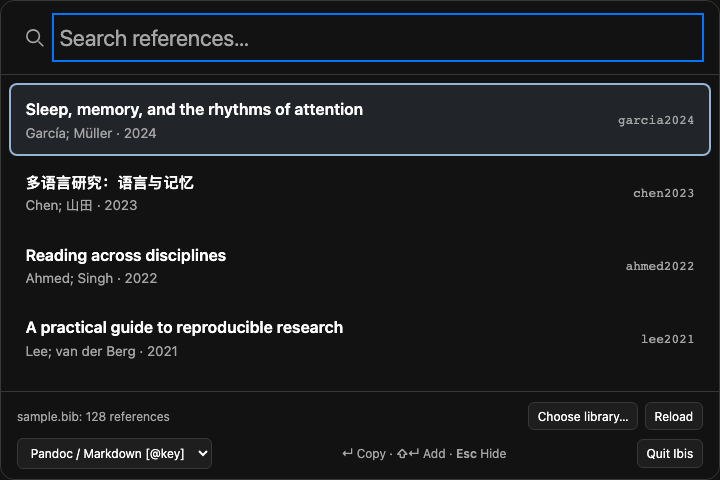
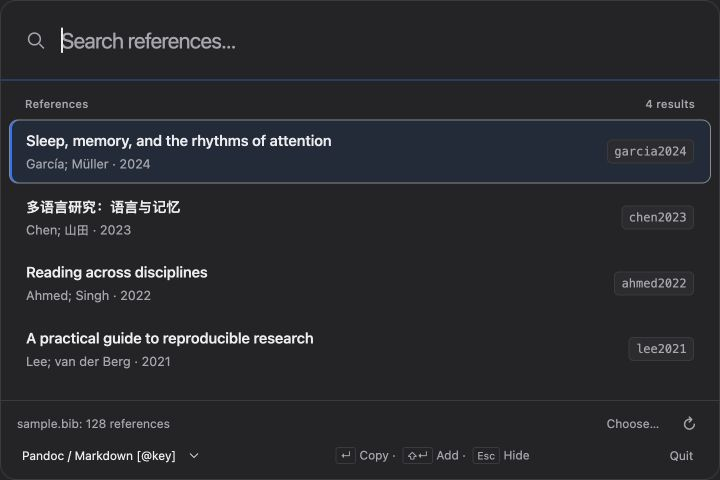
style: refine picker hierarchy and enlarged text reflow

diff --git a/apps/desktop/src/styles.css b/apps/desktop/src/styles.css
@@ -2,24 +2,39 @@
 :root {
   color-scheme: light dark;
   font-family: -apple-system, BlinkMacSystemFont, "Segoe UI", system-ui, sans-serif;
-  color: CanvasText;
-  background: Canvas;
+  color: var(--text);
+  background: var(--surface);
   font-synthesis: none;
-  --muted: color-mix(in srgb, CanvasText 62%, Canvas);
-  --line: color-mix(in srgb, CanvasText 16%, Canvas);
-  --accent: AccentColor;
+  --surface: Canvas;
+  --text: CanvasText;
+  --muted: CanvasText;
+  --line: GrayText;
+  --active-edge: CanvasText;
+  --accent: Highlight;
 }
+
+/* Older system webviews retain usable system colours. */
+@supports (color: light-dark(white, black)) {
+  :root {
+    --surface: light-dark(#fcfcfd, #242426);
+    --text: light-dark(#27272b, #ededf0);
+    --muted: light-dark(#6b6b75, #a6a6af);
+    --line: light-dark(#e7e7ec, #3a3a40);
+    --active-edge: light-dark(#83838d, #898993);
+  }
+}
+@supports (color: AccentColor) { :root { --accent: AccentColor; } }
 
 * { box-sizing: border-box; }
 body { margin: 0; }
 button, input, select { font: inherit; color: inherit; }
 button, select {
-  background: color-mix(in srgb, CanvasText 5%, Canvas);
+  background: color-mix(in srgb, var(--text) 4%, var(--surface));
   border: 1px solid var(--line);
   border-radius: 6px;
   padding: .35rem .55rem;
 }
-button:hover { background: color-mix(in srgb, CanvasText 12%, Canvas); }
+button:hover { background: color-mix(in srgb, var(--text) 8%, var(--surface)); }
 :focus-visible { outline: 2px solid var(--accent, Highlight); outline-offset: 2px; }
 main {
   height: 100dvh;
@@ -27,28 +42,31 @@ main {
   flex-direction: column;
   overflow: auto;
   border: 1px solid var(--line);
-  border-radius: 14px;
+  border-radius: 16px;
 }
 
-.search-bar { display: flex; align-items: center; gap: .8rem; padding: 1.2rem 1.4rem; border-bottom: 1px solid var(--line); cursor: move; user-select: none; }
-.search-bar svg { width: 1.45rem; flex-shrink: 0; color: var(--muted); pointer-events: none; }
-.search-bar:focus-within { box-shadow: inset 0 -2px 0 var(--accent, Highlight); }
-#search { width: 100%; min-width: 0; font-size: 1.4rem; background: transparent; border: 0; padding: .25rem 0; outline-offset: 5px; cursor: text; user-select: text; }
+.search-bar { display: flex; align-items: center; gap: .9rem; padding: 1.4rem 1.5rem; border-bottom: 1px solid var(--line); cursor: move; user-select: none; }
+.search-bar svg { width: 1.35rem; flex-shrink: 0; color: var(--muted); pointer-events: none; }
+.search-bar:focus-within { border-bottom-color: var(--accent); border-bottom-color: color-mix(in srgb, var(--accent) 50%, var(--line)); }
+#search { width: 100%; min-width: 0; font-size: 1.35rem; letter-spacing: -.025em; background: transparent; border: 0; padding: .25rem 0; outline-offset: 5px; cursor: text; user-select: text; }
 #search:focus-visible { outline: none; }
 #search::placeholder { color: var(--muted); }
 .visually-hidden { position: absolute; width: 1px; height: 1px; padding: 0; margin: -1px; overflow: hidden; clip-path: inset(50%); white-space: nowrap; }
 
-.results-area { flex: 1; min-height: 5rem; overflow: auto; padding: .5rem; }
+.results-area { flex: 1; min-height: 5rem; overflow: auto; padding: .5rem; scrollbar-width: thin; }
+.results-heading { display: flex; justify-content: space-between; padding: .55rem 1rem .45rem; color: var(--muted); font-size: .7rem; font-weight: 500; letter-spacing: .02em; }
 #results { list-style: none; padding: 0; margin: 0; }
-[role="option"] { display: flex; align-items: center; gap: 1rem; cursor: default; padding: .85rem .9rem; border-radius: 8px; border: 2px solid transparent; }
+[role="option"] { display: flex; align-items: center; gap: 1rem; cursor: default; padding: .6rem 1rem; margin: .1rem 0; border-radius: 9px; border: 1px solid transparent; }
 .result-text { flex: 1; min-width: 0; overflow-wrap: anywhere; }
-.result-text strong { display: block; font-weight: 600; line-height: 1.35; }
-.result-meta { display: block; color: var(--muted); font-size: .85rem; margin-top: .25rem; }
-.result-key { font-size: .8rem; max-width: 34%; overflow-wrap: anywhere; color: var(--muted); }
+.result-text strong { display: block; font-size: .925rem; font-weight: 550; line-height: 1.4; letter-spacing: -.01em; }
+.result-meta { display: block; color: var(--muted); font-size: .8rem; line-height: 1.5; margin-top: .2rem; }
+.result-key { font-size: .75rem; max-width: 30%; overflow-wrap: anywhere; color: var(--muted); background: color-mix(in srgb, var(--text) 4%, var(--surface)); border: 1px solid var(--line); border-radius: 5px; padding: .25rem .4rem; }
+[role="option"]:hover:not([data-active]):not([aria-selected="true"]) { background: color-mix(in srgb, var(--text) 3%, var(--surface)); }
 /* Active and selected remain distinguishable even without colour. */
-[role="option"][data-active] { background: color-mix(in srgb, Highlight 12%, Canvas); border-color: Highlight; }
+[role="option"][data-active] { background: Canvas; background: color-mix(in srgb, var(--accent) 9%, var(--surface)); border-color: var(--active-edge); box-shadow: inset 2px 0 var(--accent); }
 [role="option"][aria-selected="true"] { background: Highlight; color: HighlightText; }
 [aria-selected="true"] .result-meta, [aria-selected="true"] .result-key { color: inherit; }
+[aria-selected="true"] .result-key { background: transparent; border-color: currentColor; }
 .empty-state { color: var(--muted); text-align: center; padding: 2rem 1rem; }
 
 .notices:empty { display: none; }
@@ -61,26 +79,32 @@ main {
 [aria-label="Selected references"] li { border: 1px solid var(--line); border-radius: 6px; padding-inline-start: .5rem; overflow-wrap: anywhere; max-width: 100%; }
 [aria-label="Selected references"] button { border: 0; background: transparent; font-size: .8rem; }
 
-footer { border-top: 1px solid var(--line); padding: .65rem 1rem; font-size: .75rem; }
+footer { border-top: 1px solid var(--line); padding: .55rem 1rem; font-size: .75rem; }
 .library-bar, .footer-tools { display: flex; flex-wrap: wrap; align-items: center; gap: .4rem; }
 .library-name { flex: 1; min-width: 8rem; overflow-wrap: anywhere; color: var(--muted); }
 .library-bar p { width: 100%; margin: .3rem 0; }
-.footer-tools { margin-top: .5rem; justify-content: space-between; }
-#format { max-width: 100%; font-size: .75rem; }
+.footer-tools { margin-top: .25rem; justify-content: space-between; }
+.quiet-button, .icon-button { background: transparent; border-color: transparent; color: var(--muted); }
+.icon-button { font-size: 1rem; padding: .15rem .4rem; }
+#format { max-width: 100%; font-size: .75rem; border-color: transparent; background: transparent; padding-inline-start: 0; }
 .key-hints { color: var(--muted); font-size: .75rem; }
-kbd { font: inherit; font-weight: 600; }
+kbd { font: inherit; font-size: .65rem; display: inline-block; padding: .1rem .25rem; border: 1px solid var(--line); border-radius: 3px; margin-inline-start: .2rem; }
 
 @media (prefers-contrast: more) {
-  :root { --muted: CanvasText; --line: CanvasText; }
+  :root { --surface: Canvas; --text: CanvasText; --muted: CanvasText; --line: CanvasText; --active-edge: CanvasText; }
   [role="option"][data-active] { border-width: 3px; }
 }
 @media (forced-colors: active) {
-  :root { --muted: CanvasText; --line: ButtonText; }
+  :root { --surface: Canvas; --text: CanvasText; --muted: CanvasText; --line: ButtonText; --active-edge: CanvasText; }
   [role="option"][data-active] { border-color: Highlight; }
   [role="option"][aria-selected="true"] { outline: 2px solid Highlight; outline-offset: -4px; }
   .search-bar:focus-within { outline: 2px solid Highlight; outline-offset: -3px; }
 }
 @media (max-width: 460px) {
+  /* Reflow into one vertical scroller instead of squeezing large text between
+     a tall footer and a tiny nested results viewport. */
+  main { height: auto; min-height: 100dvh; overflow: visible; }
+  .results-area { flex: none; overflow: visible; }
   .search-bar { padding: .9rem; }
   [role="option"] { flex-wrap: wrap; gap: .4rem; }
   .result-text { flex-basis: 100%; }

diff --git a/apps/desktop/src/App.tsx b/apps/desktop/src/App.tsx
@@ -238,6 +238,9 @@ export function App() {
         </ul>
       )}
       <div className="results-area">
+        <div className="results-heading" aria-hidden="true">
+          <span>References</span><span>{results.length > 0 ? `${results.length} results` : ""}</span>
+        </div>
         <ul id="results" role="listbox" aria-label="Results" aria-multiselectable="true">
           {results.map((r, i) => (
             <li
@@ -275,12 +278,12 @@ export function App() {
                 (library.warnings > 0 ? `, ${library.warnings} could not be read fully` : "")
               : "No library chosen"}
           </span>{" "}
-          <button type="button" onClick={() => void chooseLibrary()}>
-            Choose library…
+          <button type="button" className="quiet-button" aria-label="Choose library…" title="Choose a library" onClick={() => void chooseLibrary()}>
+            Choose…
           </button>
           {library?.name && (
-            <button type="button" onClick={() => void reloadLibrary()}>
-              Reload
+            <button type="button" className="icon-button" aria-label="Reload" title="Reload library" onClick={() => void reloadLibrary()}>
+              ↻
             </button>
           )}
           {library?.error && <p role="alert">The library could not be opened: {library.error}</p>}
@@ -301,8 +304,8 @@ export function App() {
             <kbd>↵</kbd> Copy · <kbd>⇧↵</kbd> Add · <kbd>Esc</kbd> Hide
           </small>
           {/* Closing the window only hides it; this ends the app and frees the shortcut. */}
-          <button type="button" onClick={() => void quit()}>
-            Quit Ibis
+          <button type="button" className="quiet-button" aria-label="Quit Ibis" onClick={() => void quit()}>
+            Quit
           </button>
         </div>
       </footer>

diff --git a/docs/development.md b/docs/development.md
@@ -61,7 +61,7 @@ Every field is optional. Edits made while the app runs are kept, and a file that
 
 The picker opens without a title bar near the top of the usable screen. Drag the search bar edge or search icon to move it; the input remains editable. This uses Tauri's built-in drag region and grants only the window drag permission. Its system colours follow light/dark mode and high contrast; text and controls wrap at larger text sizes. Enter still copies and hides, Shift+Enter selects, and Escape hides. Copy confirmations expire after 2.4 seconds; copy warnings stay until dismissed. Library controls, output format and Quit remain in the footer.
 
-Visual evidence for #88 uses synthetic references: [browser light](images/picker-browser-light.png), [browser dark](images/picker-browser-dark.png), and [native macOS dark](images/picker-macos-dark.png). The browser checks also covered forced colours and 200% text at a 360-pixel viewport (controls remain reachable by scrolling, without horizontal overflow). The native screenshot is a macOS development build; Windows/Linux native screenshots and release-build blur checks remain to be recorded before #88 is complete.
+Visual evidence for #88 uses synthetic references: [browser light](images/picker-browser-light.png), [browser dark](images/picker-browser-dark.png), and [native macOS dark](images/picker-macos-dark.png). The browser checks also covered forced colours and 200% text at a 360-pixel viewport (one vertical scroller keeps controls reachable without horizontal overflow). Theme tokens retain system-colour fallbacks for older system webviews. The native screenshot is a macOS development build; Windows/Linux native screenshots and release-build blur checks remain to be recorded before #88 is complete.
 
 ## Desktop command contract
 
